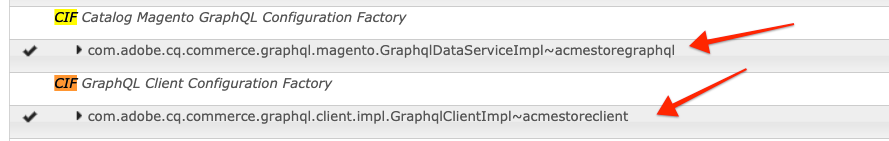
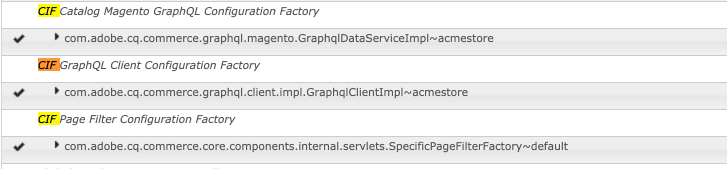
updates for 0.10.0 release of archetype

Changed region(s): [[0.0, 0.0, 1.0, 0.9078], [0.0, 0.9645, 1.0, 0.9929]]

diff --git a/getting-started/02-new-cif-project.md b/getting-started/02-new-cif-project.md
@@ -16,14 +16,12 @@ The following tools and technologies are required:
 
 * [Java 1.8](https://www.oracle.com/technetwork/java/javase/downloads/index.html) or [Java 11](https://www.oracle.com/technetwork/java/javase/downloads/jdk11-downloads-5066655.html) (AEM 6.5+ only)
 * [Apache Maven](https://maven.apache.org/) (3.3.9 or newer)
-* Adobe Experience Manager (local instance)
-  * [AEM 6.5](https://helpx.adobe.com/experience-manager/6-5/sites/deploying/using/technical-requirements.html)
-  * [AEM 6.4.4+](https://helpx.adobe.com/experience-manager/6-4/release-notes/sp-release-notes.html)
-* Magento running a [version compatible to the archetype](https://github.com/adobe/aem-cif-project-archetype#requirements)
+* [Adobe Experience Manager](https://github.com/adobe/aem-cif-project-archetype#requirements) (local instance)
+* [Magento](https://github.com/adobe/aem-cif-project-archetype#requirements)
 
 It is also considered a best practice to include the Adobe Public Maven Repository in your Maven settings. This file, commonly found at `~/.m2/settings.xml` can be updated following this [Knowledge Base](https://helpx.adobe.com/experience-manager/kb/SetUpTheAdobeMavenRepository.html) article.
 
-**New to AEM development?** Check out the [following guide to setting up a local development environment](https://docs.adobe.com/content/help/en/experience-manager-learn/foundation/development/set-up-a-local-aem-development-environment.html) and this generic [AEM developer tutorial](https://docs.adobe.com/content/help/en/experience-manager-learn/getting-started-wknd-tutorial-develop/overview.html) to learn the basics.
+> **New to AEM development?** Check out the [following guide to setting up a local development environment](https://docs.adobe.com/content/help/en/experience-manager-learn/foundation/development/set-up-a-local-aem-development-environment.html) and this generic [AEM developer tutorial](https://docs.adobe.com/content/help/en/experience-manager-learn/getting-started-wknd-tutorial-develop/overview.html) to learn the basics.
 
 ## Generate the project
 
@@ -188,7 +186,7 @@ At this point the [Acme storefront](http://localhost:4502/editor.html/content/ac
 
 If you have followed the video on the [Getting Started AEM - Magento Integration](01-getting-started.md) you'll know that these configurations can be done via the AEM web UI. Now that we have generated our own project we can add these configurations directly to the project. Adding these configurations to the project will eliminate the need to manually setup the integration every time we start a new instance of AEM and ensure consistency across environments.
 
-In the following steps we will be adding modifying several files in the generated project beneath `acme-store` (where you generated the project on the file system). You can use your favorite text-editor or import the Maven project using an [IDE like Eclipse, IntelliJ or Visual Studio Code](https://helpx.adobe.com/experience-manager/kt/platform-repository/using/local-aem-dev-environment-article-setup.html#setup-integrated-env).
+In the following steps we will be adding modifying several files in the generated project beneath `acme-store` (where you generated the project on the file system). You can use your favorite text-editor or import the Maven project using an [IDE like Eclipse, IntelliJ or Visual Studio Code](https://docs.adobe.com/content/help/en/experience-manager-learn/foundation/development/set-up-a-local-aem-development-environment.html#set-up-an-integrated-development-environment).
 
 ### Add OSGi Configurations
 
@@ -205,7 +203,7 @@ In the following steps we will be adding modifying several files in the generate
 
     > AEM uses the notion of [Run Modes](https://helpx.adobe.com/experience-manager/6-5/sites/deploying/using/configure-runmodes.html) to define specific configurations for specific environments. The easiest way to target different environments is via the folder name. In this case *config* will apply to all environments. You can create additional run-modes with different folder names to target different environments. More [details can be found here](https://helpx.adobe.com/experience-manager/6-5/sites/deploying/using/configure-runmodes.html#Definingconfigurationpropertiesforarunmode). This may be useful if you wish to have different Magento configurations based on Author vs. Publish or Dev/QA vs. Production.
 
-2. Create a new XML file beneath the `/config` folder named: `com.adobe.cq.commerce.graphql.client.impl.GraphqlClientImpl-acmestoreclient.xml`
+2. Create a new file beneath the `/config` folder named: `com.adobe.cq.commerce.graphql.client.impl.GraphqlClientImpl-acmestore.config`
 
     ```diff
       /ui.apps
@@ -214,30 +212,30 @@ In the following steps we will be adding modifying several files in the generate
             /acme
               /components
               /config
-    +             com.adobe.cq.commerce.graphql.client.impl.GraphqlClientImpl-acmestoreclient.xml
+    +             com.adobe.cq.commerce.graphql.client.impl.GraphqlClientImpl-acmestore.config
     ```
 
-    > Note the suffix of `-acmestoreclient` to the name of the file. The `GraphqlClientImpl` is an OSGi Configuration Factory and allows for multiple configurations. You can add more configurations, you just need to ensure that each has a unique suffix so that AEM doesn't get confused during installation. More details about [OSGi Configuration with files can be found here](https://helpx.adobe.com/experience-manager/6-5/sites/deploying/using/configuring-osgi.html?cq_ck=1368002864971#OSGiConfigurationwithconfigurationfiles).
+    > Note the suffix of `-acmestore` to the name of the file. The `GraphqlClientImpl` is an OSGi Configuration Factory and allows for multiple configurations. You can add more configurations, you just need to ensure that each has a unique suffix so that AEM doesn't get confused during installation. More details about [OSGi Configuration with files can be found here](https://helpx.adobe.com/experience-manager/6-5/sites/deploying/using/configuring-osgi.html?cq_ck=1368002864971#OSGiConfigurationwithconfigurationfiles).
 
-3. Populate `com.adobe.cq.commerce.graphql.client.impl.GraphqlClientImpl-acmestoreclient.xml` with the following, replacing *YOUR-MAGENTO-HOST* with your Magento hostname.
+3. Populate `com.adobe.cq.commerce.graphql.client.impl.GraphqlClientImpl-acmestore.config` with the following, replacing *YOUR-MAGENTO-HOST* with your Magento hostname.
 
-    ```xml
-    <?xml version="1.0" encoding="UTF-8"?>
-    <jcr:root xmlns:sling="http://sling.apache.org/jcr/sling/1.0" xmlns:jcr="http://www.jcp.org/jcr/1.0"
-      jcr:primaryType="sling:OsgiConfig"
-      acceptSelfSignedCertificates="{Boolean}false"
-      identifier="acme"
-      maxHttpConnections="{Long}20"
-      httpMethod="GET"
-      url="https://YOUR-MAGENTO-HOST/graphql"/>
-
+    ```plain
+    requestPoolTimeout=I"2000"
+    url="https://YOUR-MAGENTO-HOST/graphql"
+    httpMethod="POST"
+    httpHeaders=[""]
+    socketTimeout=I"5000"
+    acceptSelfSignedCertificates=B"false"
+    identifier="default"
+    maxHttpConnections=I"20"
+    connectionTimeout=I"5000"
     ```
 
-    > Note that we are setting the identifer to **acme**. This will be used in several locations in the following steps. 
+    > Note that we are setting the identifer to **default**. This will be used in several locations in the following steps.
     >
-    > Also note the httpMethod is set to GET. Starting with version **2.3.2**, Magento supports and can cache some GraphQL queries when using GET. More [details about this configuration can be found here](https://github.com/adobe/aem-core-cif-components/wiki/configuration#cif-magento-graphql-base-configuration).
+    > Also note the httpMethod is set to POST. Starting with version **2.3.2**, Magento supports and can cache some GraphQL queries when using GET. More [details about this configuration can be found here](https://github.com/adobe/aem-core-cif-components/wiki/configuration#cif-magento-graphql-base-configuration).
 
-4. Create a second XML file beneath the `/config` folder named: `com.adobe.cq.commerce.graphql.magento.GraphqlDataServiceImpl-acmestoregraphql.xml`
+4. Create a second XML file beneath the `/config` folder named: `com.adobe.cq.commerce.graphql.magento.GraphqlDataServiceImpl-acmestore.config`
 
     ```diff
       /ui.apps
@@ -246,70 +244,76 @@ In the following steps we will be adding modifying several files in the generate
             /acme
               /components
               /config
-                 com.adobe.cq.commerce.graphql.client.impl.GraphqlClientImpl-acmestoreclient.xml
-    +            com.adobe.cq.commerce.graphql.magento.GraphqlDataServiceImpl-acmestoregraphql.xml
+                 com.adobe.cq.commerce.graphql.client.impl.GraphqlClientImpl-acmestore.config
+    +            com.adobe.cq.commerce.graphql.magento.GraphqlDataServiceImpl-acmestore.config
     ```
 
-    > Like the `GraphqlClientImpl`, `GraphqlDataServiceImpl` is an OSGi Configuration factory, hence the unique suffix of `-acmestoregraphql`.
+    > Like the `GraphqlClientImpl`, `GraphqlDataServiceImpl` is an OSGi Configuration factory, hence the unique suffix of `-acmestore`.
 
-5. Populate `com.adobe.cq.commerce.graphql.magento.GraphqlDataServiceImpl-acmestoregraphql.xml` with the following:
+5. Populate `com.adobe.cq.commerce.graphql.magento.GraphqlDataServiceImpl-acmestore.config` with the following:
+
+    ```xml
+    productCachingTimeMinutes=I"5"
+    catalogCachingTimeMinutes=I"60"
+    identifier="default"
+    categoryCachingSize=I"100"
+    catalogCachingSchedulerEnabled=B"true"
+    productCachingSize=I"1000"
+    catalogCachingEnabled=B"true"
+    productCachingEnabled=B"true"
+    ```
+
+    > Note the `identifier` is set to **default**, corresponding to the `GraphqlClientImpl` configuration from Step 3.
+
+6. In the **samplecontent** module navigate to `samplecontent/src/main/content/jcr_root/apps/acme/config` and find the file: `com.adobe.cq.commerce.core.components.internal.servlets.SpecificPageFilterFactory-default.config`.
+
+7. Move `com.adobe.cq.commerce.core.components.internal.servlets.SpecificPageFilterFactory-default.config` from **samplecontent** to the the config folder beneath **ui.apps**. You should now have a folder structure under **ui.apps** like the following:
+
+    ```diff
+      /ui.apps
+        ...
+          /apps
+            /acme
+              /components
+              /config
+                 com.adobe.cq.commerce.graphql.client.impl.GraphqlClientImpl-acmestore.config
+                 com.adobe.cq.commerce.graphql.magento.GraphqlDataServiceImpl-acmestore.config
+    +            com.adobe.cq.commerce.core.components.internal.servlets.SpecificPageFilterFactory-default.config
+    ```
+
+    The **config** folder in the **samplecontent** module should be empty now.
+
+### Update CIF Cloud Service Configuration
+
+A CIF Cloud Service configuration has been created in the **ui.content** module. We will now add a few properties to finish the configuration.
+
+1. Beneath the **ui.content** module navigate to `ui.content/src/main/content/jcr_root/conf/acme/settings/cloudconfigs/commerce`.
+2. Open the **.content.xml** file beneath `/conf/acme/settings/cloudconfigs/commerce`. Notice that `cq:catalogIdentifier` and `cq:graphqlClient` are set to a value of **default** which matches the OSGi identifier created in the previous exercise.
+3. Update the `magentoRootCategoryId` from **4** to the value of your Magento default category id.
+4. Ensure that there is a property and value for `magentoGraphqlEndpoint="/magento/graphql"`.
+5. (Optional) Update the value for `magentoStore` to specify the Magento store you want to use. If unsure, leave as **default**.
+6. You should now have an XML file that looks like the following where `YOUR_ROOT_CATEGORY_ID` is a number for your magento default category id:
 
     ```xml
     <?xml version="1.0" encoding="UTF-8"?>
-    <jcr:root xmlns:sling="http://sling.apache.org/jcr/sling/1.0" xmlns:jcr="http://www.jcp.org/jcr/1.0"
-        jcr:primaryType="sling:OsgiConfig"
-        catalogCachingEnabled="{Boolean}true"
-        catalogCachingSchedulerEnabled="{Boolean}true"
-        catalogCachingTimeMinutes="{Long}60"
-        categoryCachingSize="{Long}100"
-        identifier="acme"
-        productCachingEnabled="{Boolean}true"
-        productCachingSize="{Long}1000"
-        productCachingTimeMinutes="{Long}5" />
-    ```
-
-    > Note the `identifier` is set to **acme**, corresponding to the `GraphqlClientImpl` configuration from Step 3.
-
-### Update Sample Content
-
-Next we will update the **samplecontent** module to match the configurations.
-
-1. Open the file `samplecontent/src/main/content/jcr_root/content/acme/us/.content.xml`. This is the root configuration for the sample US storefront site.
-2. Update the `cq:graphqlClient` value to point to `acme`.
-
-    ```diff
-    <?xml version="1.0" encoding="UTF-8"?>
     <jcr:root xmlns:sling="http://sling.apache.org/jcr/sling/1.0" xmlns:cq="http://www.day.com/jcr/cq/1.0" xmlns:jcr="http://www.jcp.org/jcr/1.0"
         jcr:primaryType="cq:Page">
         <jcr:content
-    -       cq:graphqlClient="default"
-    +       cq:graphqlClient="acme"
-            cq:lastModified="{Date}2019-04-17T12:05:17.396+02:00"
+            cq:catalogDataResourceProviderFactory="magento-graphql"
+            cq:catalogIdentifier="default"
+            cq:graphqlClient="default"
+            cq:lastModified="{Date}2020-02-27T17:23:11.156+02:00"
             cq:lastModifiedBy="admin"
-    ```
-
-    > Note that **acme** is the identifier used for the GraphQL client configured in the **Add OSGi Configurations** above.
-
-3. Open the file `samplecontent/src/main/content/jcr_root/content/acme/us/en/products/.content.xml`. This is the configuration properties for the US Product Page.
-4. Update the `magentoRootCategoryId` from **4** to the value of your Magento default category id. This will be the number used in step 5 of **Add OSGi Configurations** above.
-
-    ```diff
-    <?xml version="1.0" encoding="UTF-8"?>
-    <jcr:root xmlns:sling="http://sling.apache.org/jcr/sling/1.0" xmlns:cq="http://www.day.com/jcr/cq/1.0" xmlns:jcr="http://www.jcp.org/jcr/1.0"
-        jcr:primaryType="cq:Page">
-        <jcr:content
-            cq:lastModified="{Date}2019-04-17T13:22:08.497+02:00"
-            cq:lastModifiedBy="admin"
-            cq:lastRolledout="{Date}2019-04-17T13:22:08.503+02:00"
-            cq:lastRolledoutBy="admin"
-            cq:template="/conf/acme/settings/wcm/templates/catalog-page"
-            jcr:mixinTypes="[cq:LiveRelationship]"
+            cq:template="/libs/commerce/gui/components/configuration/page/template"
+            jcr:language="en_us"
             jcr:primaryType="cq:PageContent"
-            jcr:title="Catalog Page"
-            sling:resourceType="acme/components/structure/catalogpage"
-    -       magentoRootCategoryId="4"
-    +       magentoRootCategoryId="YOUR_ROOT_CATEGORY_ID"
-            showMainCategories="{Boolean}true"/>
+            jcr:title="Commerce"
+            sling:configPropertyInherit="true"
+            sling:resourceType="commerce/gui/components/configuration/page"
+            magentoRootCategoryId="YOUR_ROOT_CATEGORY_ID"
+            magentoStore="default"
+            magentoGraphqlEndpoint="/magento/graphql"/>
+    </jcr:root>
     ```
 
 ## Finish local setup
@@ -350,31 +354,37 @@ Next we will update the **samplecontent** module to match the configurations.
 
     ![OSGi Configurations](assets/new-cif-project/osgi-configurations.png)
 
-4. Navigate to the AEM Products Console: [http://localhost:4502/aem/products.html/var/commerce/products](http://localhost:4502/aem/products.html/var/commerce/products).
+4. Navigate to the [CIF Configurations console](http://localhost:4502/libs/commerce/gui/content/configuration.html/conf). You should see a configuration for **Acme Store Configuration**.
 
-5. In the upper right-hand corner, click **Create** `>` **Bind Products**:
+5. View the properties for the **Acme Store Configuration** by selecting **Commerce** and clicking **Properties**.
+
+    ![Acme Store Configuration Properties](assets/new-cif-project/cif-cloud-service-console.png)
+
+6. You should see the properties entered in the previous lesson, including the custom entry for the **Root category id**:
+
+    ![Cloud Service Config Properties](assets/new-cif-project/cif-cloud-service-properties.png)
+
+7. Navigate to the AEM Products Console: [http://localhost:4502/aem/products.html/var/commerce/products](http://localhost:4502/aem/products.html/var/commerce/products).
+
+8. In the upper right-hand corner, click **Create** `>` **Bind Products**:
 
     ![Bind Products](./assets/new-cif-project/bind-products-button.png)
 
-6. Fill out the Bind Products Wizard with the following values:
+9. Fill out the Bind Products Wizard with the following values:
 
     | Property           | Value                     |
-    |--------------------|---------------------------|
-    | Title              | Acme Store                |
-    | Name*              | acme-store                |
-    | Commerce provider* | magento-graphql           |
-    | Magento Store      | (leave blank for default) |
-    | Root category id   | YOUR_ROOT_CATEGORY_ID     |
-    | Project            | acme                      |
-    | Language           | English                   |
+    |------------------------------|------------------|
+    | Title                        | Acme Store      |
+    | Name*                        | acme-store      |
+    | Context-Aware Configuration* | /conf/acme      |
 
     ![Bind product wizard](./assets/new-cif-project/bind-products-wizard.png)
 
-7. Click **Bind** and you should see the categories and products pulled from your Magento instance:
+10. Click **Bind** and you should see the categories and products pulled from your Magento instance:
 
     ![Commerce Console](assets/new-cif-project/commerce-console.png)
   
-8. Navigate to the AEM Sites Console and open the **US** `>` **EN** homepage: [http://localhost:4502/editor.html/content/acme/us/en.html](http://localhost:4502/editor.html/content/acme/us/en.html). Switch into **Preview** mode. The navigation of the site should now be populated with categories from the binded Magento instance:
+11. Navigate to the AEM Sites Console and open the **US** `>` **EN** homepage: [http://localhost:4502/editor.html/content/acme/us/en.html](http://localhost:4502/editor.html/content/acme/us/en.html). Switch into **Preview** mode. The navigation of the site should now be populated with categories from the connected Magento instance:
 
     ![US EN Home Page](assets/new-cif-project/us-en-samplesite.png)
 
